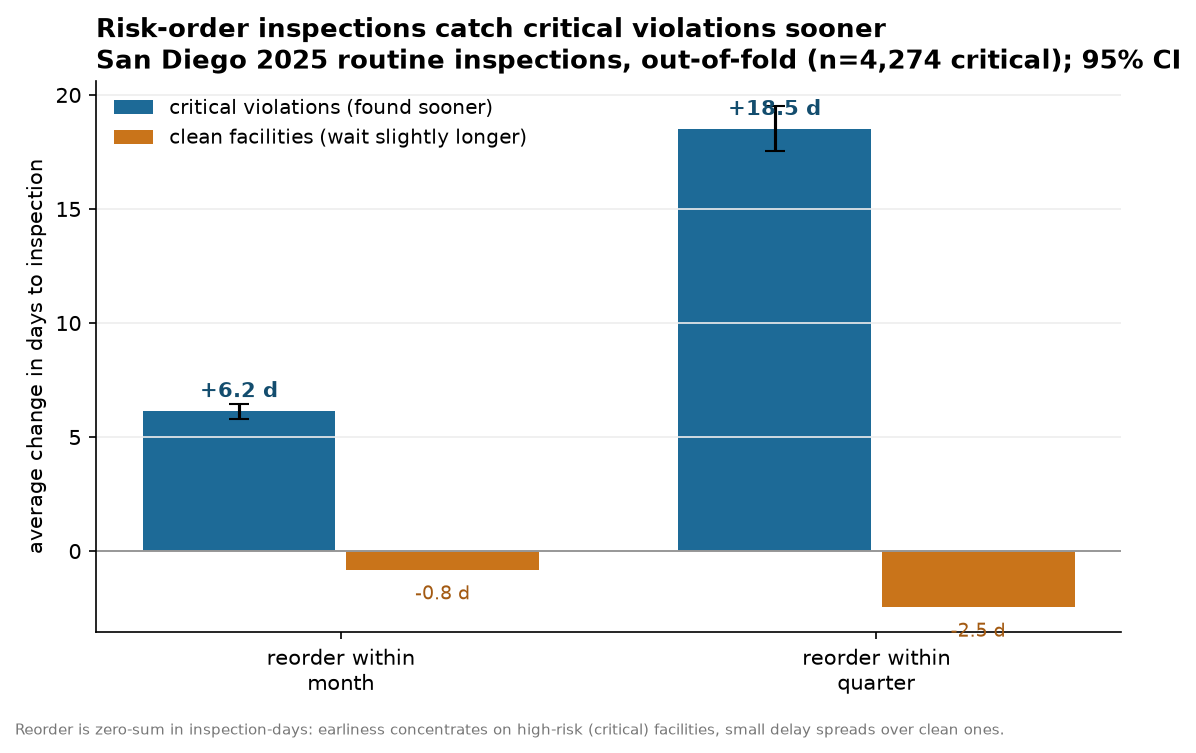
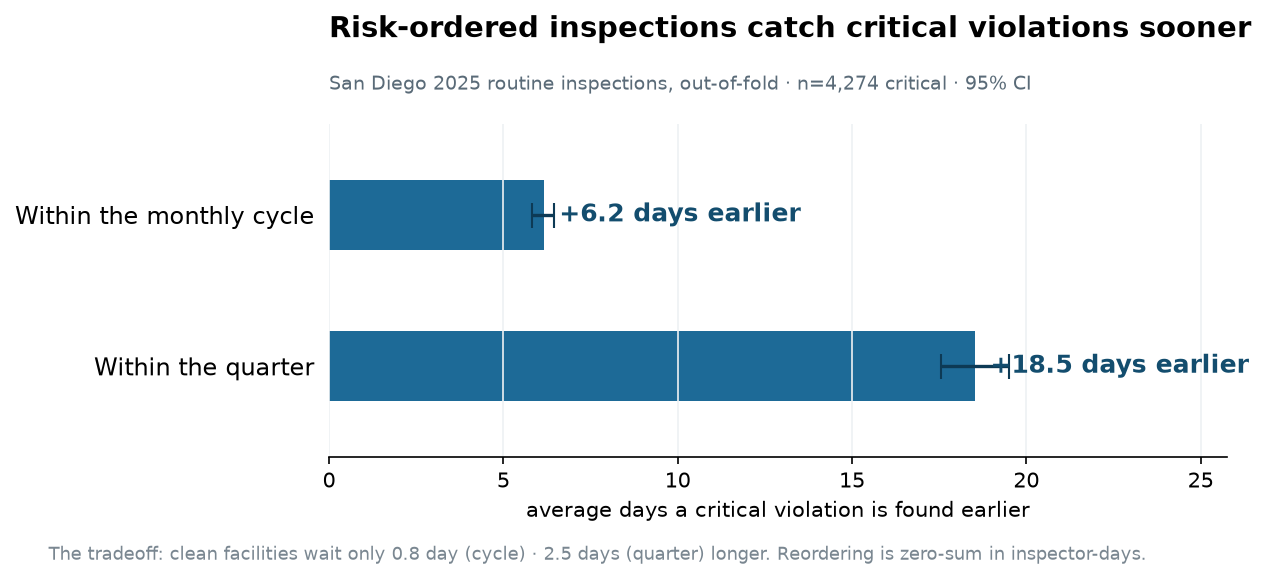
Dashboard: all 15,870 active facilities, paginated table (50/page), cleaner chart
- export: embed every active facility (was capped at top 2,500).
- table: 50 rows/page with Prev/Next + page indicator; filters repaginate.
- days-earlier chart redesigned as a clean horizontal bar with CI + tradeoff note.

Changed region(s): [[0.0, 0.1244, 0.99, 0.9948], [0.0619, 0.0, 0.99, 0.0933], [0.0, 0.2176, 0.0928, 0.3109]]

diff --git a/dashboard.template.html b/dashboard.template.html
@@ -40,6 +40,11 @@ h2{font-size:13px;font-family:var(--mono);text-transform:uppercase;letter-spacin
 .controls label{font-family:var(--mono);font-size:10.5px;text-transform:uppercase;letter-spacing:.05em;color:var(--ink-soft)}
 select,input{font-family:var(--sans);font-size:13px;padding:6px 9px;border:1px solid var(--line-strong);border-radius:8px;background:var(--surface);color:var(--ink)}
 .count{font-family:var(--mono);font-size:11px;color:var(--ink-soft);margin-left:auto}
+.pager{display:flex;align-items:center;gap:14px;justify-content:center;margin:14px 0 2px}
+.pgbtn{font-family:var(--sans);font-weight:700;font-size:13px;padding:7px 14px;border-radius:8px;border:1px solid var(--line-strong);background:var(--surface);color:var(--ink);cursor:pointer}
+.pgbtn:hover:not(:disabled){border-color:var(--teal)}
+.pgbtn:disabled{opacity:.4;cursor:default}
+.pginfo{font-family:var(--mono);font-size:11.5px;color:var(--ink-soft)}
 .tbl-wrap{overflow-x:auto;border:1px solid var(--line);border-radius:12px}
 table{border-collapse:collapse;width:100%;font-size:12.5px;min-width:680px}
 th,td{text-align:left;padding:9px 11px;border-bottom:1px solid var(--line);vertical-align:middle}
@@ -85,6 +90,7 @@ tbody tr:last-child td{border-bottom:none}
     <thead><tr><th>Predicted risk</th><th>Facility</th><th>Type</th><th>City</th><th>History</th><th>Since last visit</th></tr></thead>
     <tbody id="tbody"></tbody>
   </table></div>
+  <div class="pager"><button id="prev" class="pgbtn">← Prev</button><span id="pageinfo" class="pginfo"></span><button id="next" class="pgbtn">Next →</button></div>
 
   <div class="foot" id="foot"></div>
 </div>
@@ -108,12 +114,19 @@ function riskColor(r){ // 0..100 -> teal to red
   const a=[29,106,151],b=[201,116,26],c=[178,53,36],t=Math.min(1,r/60)*2,i=Math.min(1,Math.floor(t)),f=t-i,s=[a,b,c];
   const m=s[i],n=s[i+1]; return `rgb(${m[0]+(n[0]-m[0])*f|0},${m[1]+(n[1]-m[1])*f|0},${m[2]+(n[2]-m[2])*f|0})`;
 }
-function render(){
+let PAGE=0; const PER=50; let filtered=[];
+function applyFilter(){
   const city=csel.value, type=tsel.value, od=$("#fover").checked;
-  let rows=DATA.worklist.filter(r=>(!city||r.city===city)&&(!type||r.type===type)&&(!od||r.months_since>12));
-  rows.sort((a,b)=>b.risk-a.risk);
-  const shown=rows.slice(0,150);
-  $("#count").textContent=`showing ${shown.length} of ${rows.length.toLocaleString()} matching`;
+  filtered=DATA.worklist.filter(r=>(!city||r.city===city)&&(!type||r.type===type)&&(!od||r.months_since>12));
+  filtered.sort((a,b)=>b.risk-a.risk); PAGE=0; renderPage();
+}
+function renderPage(){
+  const total=filtered.length, pages=Math.max(1,Math.ceil(total/PER));
+  if(PAGE>pages-1) PAGE=pages-1; if(PAGE<0) PAGE=0;
+  const start=PAGE*PER, shown=filtered.slice(start,start+PER);
+  $("#count").textContent = total? `${(start+1).toLocaleString()}–${(start+shown.length).toLocaleString()} of ${total.toLocaleString()} facilities` : "0 matching";
+  $("#pageinfo").textContent = `Page ${PAGE+1} of ${pages.toLocaleString()}`;
+  $("#prev").disabled = PAGE<=0; $("#next").disabled = PAGE>=pages-1;
   $("#tbody").innerHTML=shown.map(r=>{
     const hist=[`${r.prior_n} prior insp.`, r.last_score!=null?`last score ${r.last_score}`:"first visit",
                 r.prior_major_pct!=null?`${r.prior_major_pct}% prior critical`:""].filter(Boolean).join(" · ");
@@ -122,10 +135,12 @@ function render(){
       `<td class="id">${r.id}</td><td>${r.type}</td><td>${r.city}</td><td class="hist">${hist}</td><td>${since}</td></tr>`;
   }).join("")||`<tr><td colspan="6" style="color:var(--ink-soft);padding:16px">No facilities match.</td></tr>`;
 }
-[csel,tsel,$("#fover")].forEach(el=>el.addEventListener("change",render));
+[csel,tsel,$("#fover")].forEach(el=>el.addEventListener("change",applyFilter));
+$("#prev").addEventListener("click",()=>{PAGE--;renderPage();});
+$("#next").addEventListener("click",()=>{PAGE++;renderPage();});
 $("#foot").innerHTML="Source: San Diego County DEH inspection results via the public sdfoodinfo.org API "+
   `(${S.n_inspections?.toLocaleString()} inspections, ${S.n_facilities?.toLocaleString()} facilities, 2023–2026). `+
   "Risk = modeled probability of a critical violation, from facility type, location and prior history (no leakage). "+
   "Worklist scores each active facility for its next inspection (model trained on all data); its accuracy is validated out-of-sample in the evidence above. Anonymized. Independent analysis — not an official County document.";
-render();
+applyFilter();
 </script>

diff --git a/sim_schedule.py b/sim_schedule.py
@@ -87,26 +87,29 @@ for wlabel,wfreq in [("within-month","M"),("within-quarter","Q")]:
           f"n={len(de_major)}. Clean facilities: {np.mean(de_clean):+.1f} days (the tradeoff).")
     results.append((wlabel, de_major.mean(), lo, hi, np.mean(de_clean)))
 
-# ---- chart: days earlier (adoption slide) ----
+# ---- chart: days earlier (clean horizontal design) ----
 import matplotlib; matplotlib.use("Agg"); import matplotlib.pyplot as plt
-labs=[r[0].replace("within-","reorder within\n") for r in results]
-mean=[r[1] for r in results]; err=[[m-r[2] for m,r in zip(mean,results)],[r[3]-m for m,r in zip(mean,results)]]
-clean=[r[4] for r in results]
-fig,ax=plt.subplots(figsize=(7.6,5),dpi=150)
-x=np.arange(len(results))
-b=ax.bar(x-0.19,mean,0.36,yerr=err,capsize=5,color="#1d6a97",label="critical violations (found sooner)")
-ax.bar(x+0.19,clean,0.36,color="#c9741a",label="clean facilities (wait slightly longer)")
-for xi,m in zip(x-0.19,mean): ax.text(xi,m+0.6,f"+{m:.1f} d",ha="center",fontweight="bold",fontsize=10,color="#134d6e")
-for xi,c in zip(x+0.19,clean): ax.text(xi,c-1.3,f"{c:.1f} d",ha="center",fontsize=9,color="#a35a12")
-ax.axhline(0,color="#888",lw=.8); ax.set_xticks(x); ax.set_xticklabels(labs)
-ax.set_ylabel("average change in days to inspection")
-ax.set_title("Risk-order inspections catch critical violations sooner\n"
-             "San Diego 2025 routine inspections, out-of-fold (n=4,274 critical); 95% CI",
-             fontsize=12.5,fontweight="bold",loc="left")
-ax.legend(frameon=False,fontsize=9.5,loc="upper left")
-for sp in ["top","right"]: ax.spines[sp].set_visible(False)
-ax.grid(axis="y",color="#eee")
-fig.text(0.01,0.01,"Reorder is zero-sum in inspection-days: earliness concentrates on high-risk (critical) facilities, "
-         "small delay spreads over clean ones.",fontsize=7,color="#777")
-fig.tight_layout(rect=[0,0.03,1,1]); fig.savefig("food_days_earlier.png",bbox_inches="tight")
+labels=["Within the monthly cycle","Within the quarter"]
+mean=[r[1] for r in results]; clean=[r[4] for r in results]
+xerr=[[m-r[2] for m,r in zip(mean,results)],[r[3]-m for m,r in zip(mean,results)]]
+ypos=[1,0]                              # monthly on top
+fig,ax=plt.subplots(figsize=(8.2,3.7),dpi=150)
+ax.barh(ypos,mean,height=0.46,color="#1d6a97",
+        xerr=xerr,capsize=6,error_kw=dict(ecolor="#0d3a55",lw=1.6))
+for yi,m in zip(ypos,mean):
+    ax.text(m+0.45,yi,f"+{m:.1f} days earlier",va="center",ha="left",fontweight="bold",fontsize=12,color="#134d6e")
+ax.set_yticks(ypos); ax.set_yticklabels(labels,fontsize=11.5)
+ax.set_xlim(0,max(r[3] for r in results)*1.32); ax.set_ylim(-0.6,1.6)
+ax.set_xlabel("average days a critical violation is found earlier",fontsize=10)
+ax.text(0,1.24,"Risk-ordered inspections catch critical violations sooner",
+        transform=ax.transAxes,fontsize=14,fontweight="bold",va="bottom")
+ax.text(0,1.09,"San Diego 2025 routine inspections, out-of-fold · n=4,274 critical · 95% CI",
+        transform=ax.transAxes,fontsize=9,color="#5a6b78",va="bottom")
+for sp in ["top","right","left"]: ax.spines[sp].set_visible(False)
+ax.tick_params(left=False); ax.grid(axis="x",color="#eef1f3")
+ct=" · ".join(f"{abs(c):.1f} day{'s' if abs(c)>=1.5 else ''} ({l.split()[-1]})" for c,l in zip(clean,labels))
+fig.text(0.012,0.015,f"The tradeoff: clean facilities wait only {ct} longer. Reordering is zero-sum in inspector-days.",
+         fontsize=8.5,color="#7a8791")
+fig.subplots_adjust(left=0.24,right=0.97,top=0.80,bottom=0.20)
+fig.savefig("food_days_earlier.png",bbox_inches="tight")
 print("saved food_days_earlier.png")

diff --git a/export_dashboard.py b/export_dashboard.py
@@ -73,7 +73,7 @@ city={str(b["business_id"]):b.get("city") for b in json.load(open("data/sd_busin
 fwd["city"]=pd.Series(fwd.index.astype(str),index=fwd.index).map(city).fillna("").str.title()
 
 fwd=fwd.sort_values("risk",ascending=False)
-work=fwd.head(2500)
+work=fwd                                   # embed ALL active facilities, not just top 2500
 rows=[]
 for i,(_,r) in enumerate(work.iterrows(),1):
     rows.append({"id":f"F-{i:05d}","risk":r["risk"],"type":str(r["business_type"]),
